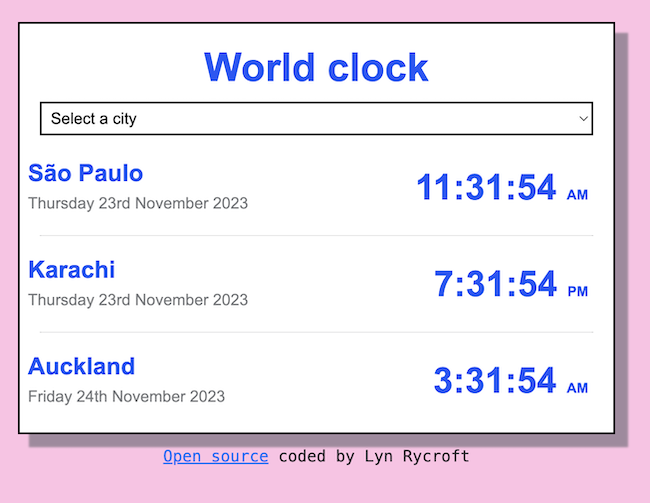
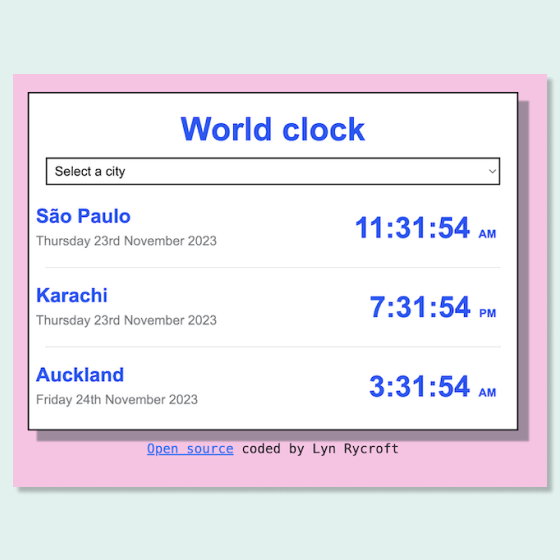
Updated images, background, content, and styling

diff --git a/index.html b/index.html
@@ -3,6 +3,7 @@
 <head>
     <meta charset="UTF-8">
     <meta name="viewport" content="width=device-width, initial-scale=1.0">
+    <meta name="description" content="The wonderful world of web development by Lyn Rycroft, an adventure in web-based apps and pages.">
     <title>My portfolio | Lyn Rycroft</title>
 
     <link href="https://cdn.jsdelivr.net/npm/bootstrap@5.3.2/dist/css/bootstrap.min.css" rel="stylesheet" integrity="sha384-T3c6CoIi6uLrA9TneNEoa7RxnatzjcDSCmG1MXxSR1GAsXEV/Dwwykc2MPK8M2HN" crossorigin="anonymous">
@@ -31,12 +32,12 @@
         </div>
     </div>  
     <h3 class="text-center mt-2 mb-5">Featured projects</h3>
-    <div class="container d-flex project-container">
-        <div class="row">
-            <div class="col-6 mb-5">
-                <img src="/images/weather-light.png" class="image mb-5"/>
+    <div class="container">
+        <div class="row mb-2">
+            <div class="col-md-6 img-container">
+                <img src="/images/weather-light.png" alt="Screenshot of weather app showing five day forecast for Manchester, UK" title="Weather app" class="image mb-5 img-fluid"/>
             </div>
-            <div class="col-6 mb-5">
+            <div class="col-md-6">
                 <h2 class="project-header mb-2">Weather app</h2>
                 <p>When learning to build webpages, there is little as exhilarating as hooking into your first API.</p>
                 <p>While the styling on this app wasn't a tour de force, the joy of APIs did overcome me and I was preaching the good word of APIs to everyone
@@ -47,39 +48,32 @@
                     me stratispheric in a fervor of coding rapture.  So it might not look like much, but it meant an awful lot to me.
                 </p>
                 <br/>
-                <span>
-                <a href="https://nimble-maamoul-210f23.netlify.app/" target="_blank" title="Open weather app"><button class="btn btn-primary">Open weather app</button></a>
-                <br />
-                <a href="https://github.com/Spookypuss/SheCodes-weather-app" target="_blank" title="Visit GitHub repository"><button class="btn btn-primary">Visit GitHub repository</button></a>
-                </span>
+                <a href="https://nimble-maamoul-210f23.netlify.app/" target="_blank" title="Open weather app"><button class="btn btn-primary">Weather app</button></a>
             </div>
         </div>
-    </div>
-    <div class="container d-flex project-container">
-        <div class="row">
-            <div class="col-6 mb-5">
+        <hr />
+        <br />
+        <div class="row mb-2 mt-2">
+            <div class="col-md-6 mb-5">
                 <h2 class="project-header mb-2">World clock</h2>
-                <p>  There are a few touchpoints problems that virtually all students of the online arts tackle, and like the weather app, the world clock is one of those.  </p>
-                    
-                <p>This project was a great experience for me, and I enjoyed trying my hand (for better or worse) at a little 90s styling.
-                </p>
-                <br/>
-                <span>
-                <a href="https://incredible-sunshine-773484.netlify.app" target="_blank" title="Open world clock app" class=""><button class="btn btn-primary">Open world clock app</button></a>
-                <a href="https://github.com/Spookypuss/world-clock" target="_blank" title="Visit GitHub repository" class=""><button class="btn btn-primary">Open GitHub repository</button></a>
-                </span>
+                <p>There are a few touchpoints problems that virtually all students of the online arts tackle, and like the weather app, the world clock is one of those.  </p>
+                <p>This project was a great experience for me, and I enjoyed trying my hand (for better or worse) at a little 90s styling.</p>
+                <p>My world clock app offers a selection of locations across the globe, as well as making an educated guess at the current time for the end user, when selected.</p>
+                <br />
+                <a href="https://incredible-sunshine-773484.netlify.app" target="_blank" title="Open world clock app" class=""><button class="btn btn-primary">World clock app</button></a>
+                
             </div>
-            <div class="col-6 mb-5">
-                <img src="/images/world-clock.png" class="image"/>
+            <div class="col-md-6 img-container">
+                <img src="/images/world-clock.png" alt="Screenshot of a world clock app, showing times in Sao Paulo, Karachi, and Aukland" title="World clock" class="image mb-5 img-fluid"/>
             </div>
         </div>
-    </div>
-    <div class="container d-flex project-container">
-        <div class="row">
-            <div class="col-6 mb-5">
-                <img src="/images/abab.png" class="image"/>
+        <hr />
+        <br />
+        <div class="row mb-2 mt-2">
+            <div class="col-md-6 img-container">
+                <img src="/images/abab.png" alt="Home brewery landing page showing beer bottles and labels" title="ABAB home brewery website landing page" class="image mb-5 img-fluid"/>
             </div>
-            <div class="col-6 mb-5">
+            <div class="col-md-6">
                 <h2 class="project-header mb-2">ABAB brewery website</h2>
                 <p>As a keen amateur brewer, I have produced a number of beers in collaboration with my partner.  We initially started with our own brewery names - 
                     Authoritarian Brewery and Anarchy Brewery - and abreviated these to ABAB for our collaborative persuits.
@@ -91,10 +85,7 @@
                     (or even just the sun coming back to the garden after winter).  We also have a gallery of labels to remember the greatest hits from our fermenter.
                 </p>
                 <br />
-                <span>
-                <a href="https://shimmering-empanada-9c3a43.netlify.app" target="_blank" title="Visit ABAB website"><button class="btn btn-primary">Visit ABAB website</button></a>
-                <a href="https://github.com/Spookypuss/ABAB" target="_blank" title="Visit GitHub repository" class=""><button class="btn btn-primary">Open GitHub repository</button></a>
-            </span>
+                <a href="https://shimmering-empanada-9c3a43.netlify.app" target="_blank" title="Visit ABAB website"><button class="btn btn-primary me-3">ABAB website</button></a>
             </div>
         </div>
     </div>
@@ -103,7 +94,7 @@
     <footer class="text-center">
         <a href="#" title="My GitHub repositories" class="git-info" target="_blank">
             <i class="fa-brands fa-github"></i>
-            <strong>   Spookypuss</strong>
+            <strong>    Spookypuss</strong>
         </a>
     </footer>
 </body>

diff --git a/css/portfolio.css b/css/portfolio.css
@@ -2,6 +2,8 @@
 :root {
     --primary-color: #142d4c;
     --secondary-color: #9fd3c7;
+    --background: rgb(159, 211, 199, 0.3);/*radial-gradient(circle at 18.7% 37.8%, rgb(250, 250, 250) 0%, rgb(225, 234, 238) 90%);*/
+    --box-shadow: 0 5px 10px rgba(0, 0, 0, 0.3);
 }
 
 body {
@@ -30,6 +32,14 @@ h3 {
     font-weight: bold;
 }
 
+hr {
+    border: 2px solid var(--primary-color);
+    display: block;
+    margin: 40px auto;
+    opacity: 80% !important;
+    width: 70%;
+}
+
 p {
     font-size: 16px;
     line-height: 30px;
@@ -37,26 +47,17 @@ p {
 
 span {
     display: flex;
-    justify-content:space-evenly;
+    justify-content:left;
 }
 
 .btn-branding {
     background: var(--secondary-color);
     border: 1px solid var(--primary-color);
     border-radius: 4px;
+    box-shadow: var(--box-shadow);
     display: block;
     font-size: 18px;
     line-height: 27px;
-    padding: 18px 30px;
-}
-
-.btn-branding-outline {
-    border: 1px solid var(--secondary-color);
-    border-radius: 4px;
-    display: block;
-    font-size: 18px;
-    line-height: 27px;
-    margin: 0 auto;
     padding: 18px 30px;
 }
 
@@ -78,16 +79,21 @@ span {
 }
 
 .hero {
-    background: radial-gradient(circle at 18.7% 37.8%, rgb(250, 250, 250) 0%, rgb(225, 234, 238) 90%);
+    background: var(--background);
     margin: 0 auto;
     padding: 140px 20px;
     text-align: center;
 }
 
 .image {
-    border: 1px solid var(--primary-color);
+    /*border: 1px solid var(--primary-color);*/
     border-radius: 4px;
     max-width: 80%;
+}
+
+.img-container {
+    display: flex;
+    justify-content: center;
 }
 
 .project-container {
@@ -101,6 +107,7 @@ span {
 }
 
 .btn-primary {
-    background: var(--secondary-color) !important;
-    border: var(--secondary-color) !important;
+    background: var(--primary-color) !important;
+    border: var(--primary-color) !important;
+    box-shadow: var(--box-shadow);
 }
